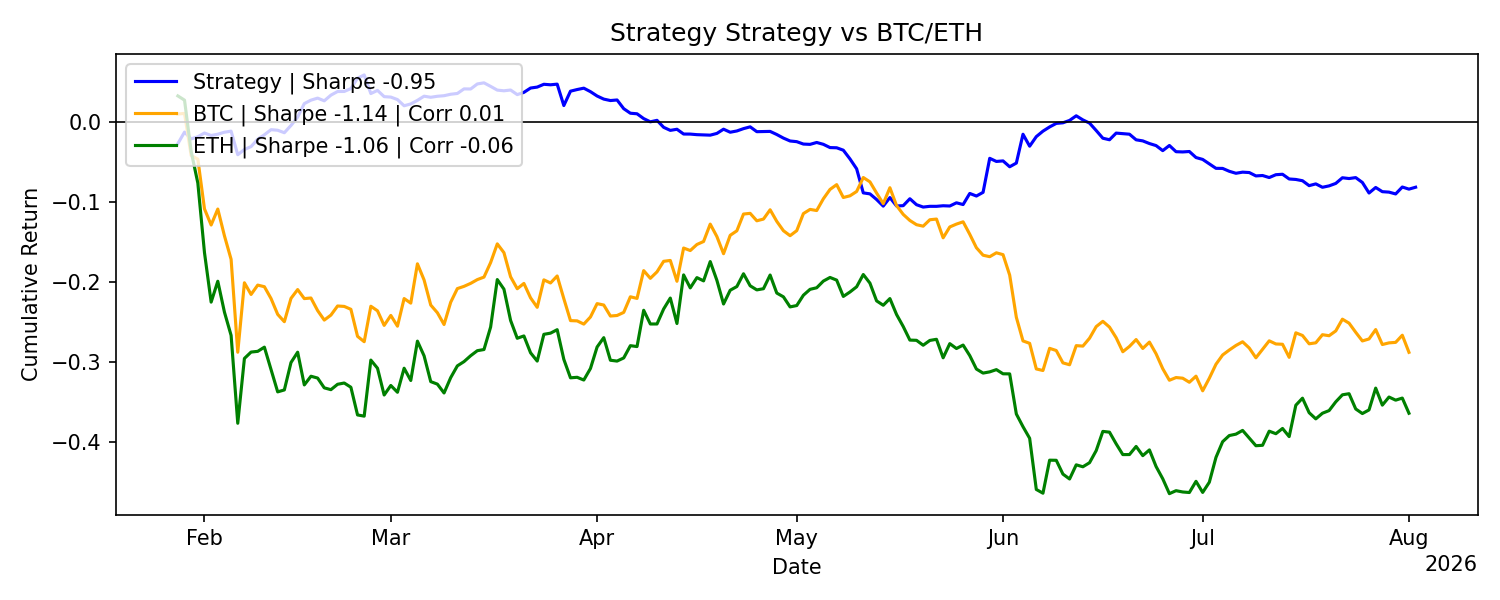
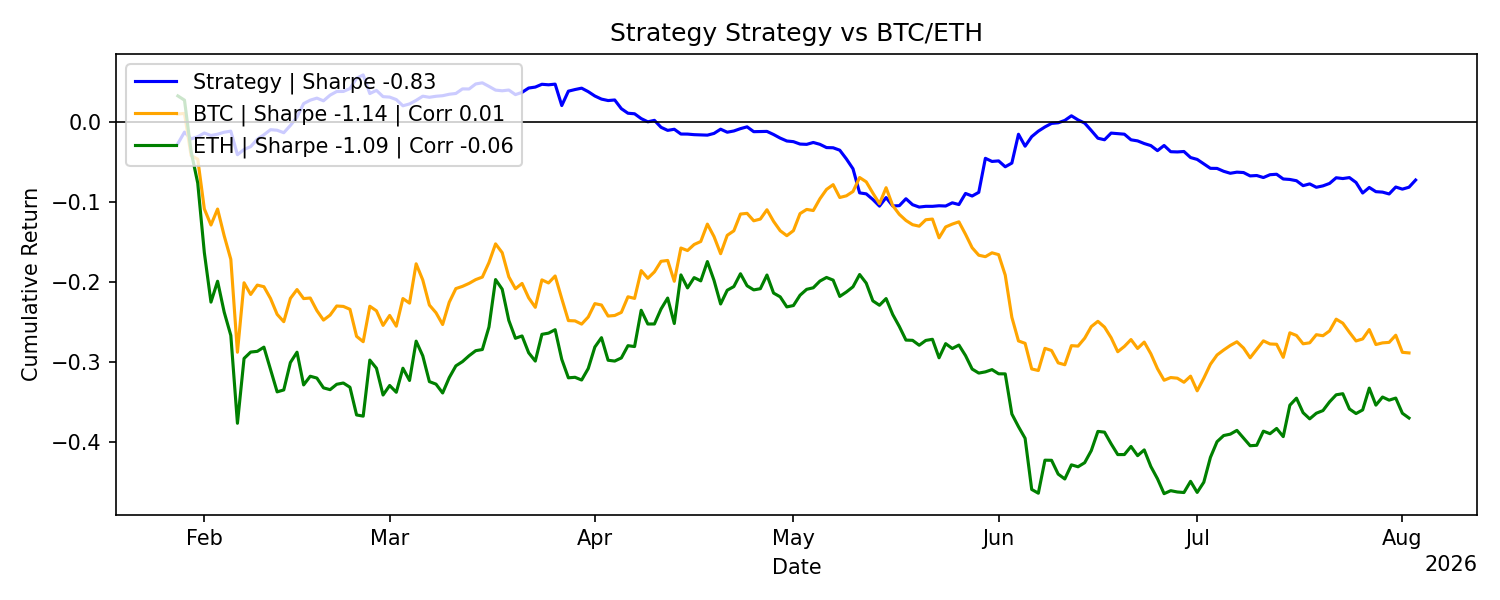
Update reports: 2026-08-03 00:02:38 UTC

diff --git a/README.md b/README.md
@@ -24,26 +24,26 @@ All results are live and reported net of transaction costs and slippage.
 <!-- METRICS_START -->
 | metric                       |        values |
 |:-----------------------------|--------------:|
-| Number of Observations       | 187           |
-| Mean Daily Return            |  -0.000419283 |
-| Daily Volatility             |   0.00842146  |
-| Mean Annualized Return       |  -0.153038    |
-| Annualized Volatility        |   0.160892    |
+| Number of Observations       | 188           |
+| Mean Daily Return            |  -0.000364959 |
+| Daily Volatility             |   0.00843188  |
+| Mean Annualized Return       |  -0.13321     |
+| Annualized Volatility        |   0.161091    |
 | Maximum Drawdown             |  -0.156146    |
-| Max Drawdown Duration (Days) | 158           |
-| Sharpe                       |  -0.951187    |
-| Sortino                      |  -1.31424     |
-| Calmar                       |  -0.980097    |
-| CAGR                         |  -0.152878    |
-| Skewness                     |   0.685561    |
-| Excess Kurtosis              |   8.72053     |
-| Win Rate                     |   0.465241    |
-| Profit Factor                |   0.854525    |
-| VaR 1%                       |  -0.0272892   |
+| Max Drawdown Duration (Days) | 159           |
+| Sharpe                       |  -0.826925    |
+| Sortino                      |  -1.14396     |
+| Calmar                       |  -0.853113    |
+| CAGR                         |  -0.135935    |
+| Skewness                     |   0.6694      |
+| Excess Kurtosis              |   8.59212     |
+| Win Rate                     |   0.468085    |
+| Profit Factor                |   0.872696    |
+| VaR 1%                       |  -0.0272595   |
 | CVaR 1%                      |  -0.030925    |
-| VaR 5%                       |  -0.0111083   |
+| VaR 5%                       |  -0.0110711   |
 | CVaR 5%                      |  -0.0201626   |
-| Correlation with BTC         |   0.00787794  |
+| Correlation with BTC         |   0.00790808  |
 <!-- METRICS_END -->
 
 ## Sharpe Statistics
@@ -55,14 +55,14 @@ All results are live and reported net of transaction costs and slippage.
 | metric                     |   values |
 |:---------------------------|---------:|
 | alpha                      |   0.05   |
-| t-statistic                |  -0.6808 |
-| p-value                    |   0.4968 |
-| Daily Sharpe Ratio         |  -0.0498 |
-| Annualized Sharpe Ratio    |  -0.9512 |
-| Sharpe Standard Error      |   1.4291 |
-| C.I. Lower Bound           |  -3.7522 |
-| C.I. Upper Bound           |   1.8498 |
-| Bootstrap C.I. Lower Bound |  -4.1037 |
-| Bootstrap C.I. Upper Bound |   2.528  |
+| t-statistic                |  -0.5935 |
+| p-value                    |   0.5536 |
+| Daily Sharpe Ratio         |  -0.0433 |
+| Annualized Sharpe Ratio    |  -0.8269 |
+| Sharpe Standard Error      |   1.4206 |
+| C.I. Lower Bound           |  -3.6113 |
+| C.I. Upper Bound           |   1.9574 |
+| Bootstrap C.I. Lower Bound |  -3.8234 |
+| Bootstrap C.I. Upper Bound |   2.6462 |
 <!-- SHARPE_END -->
 
